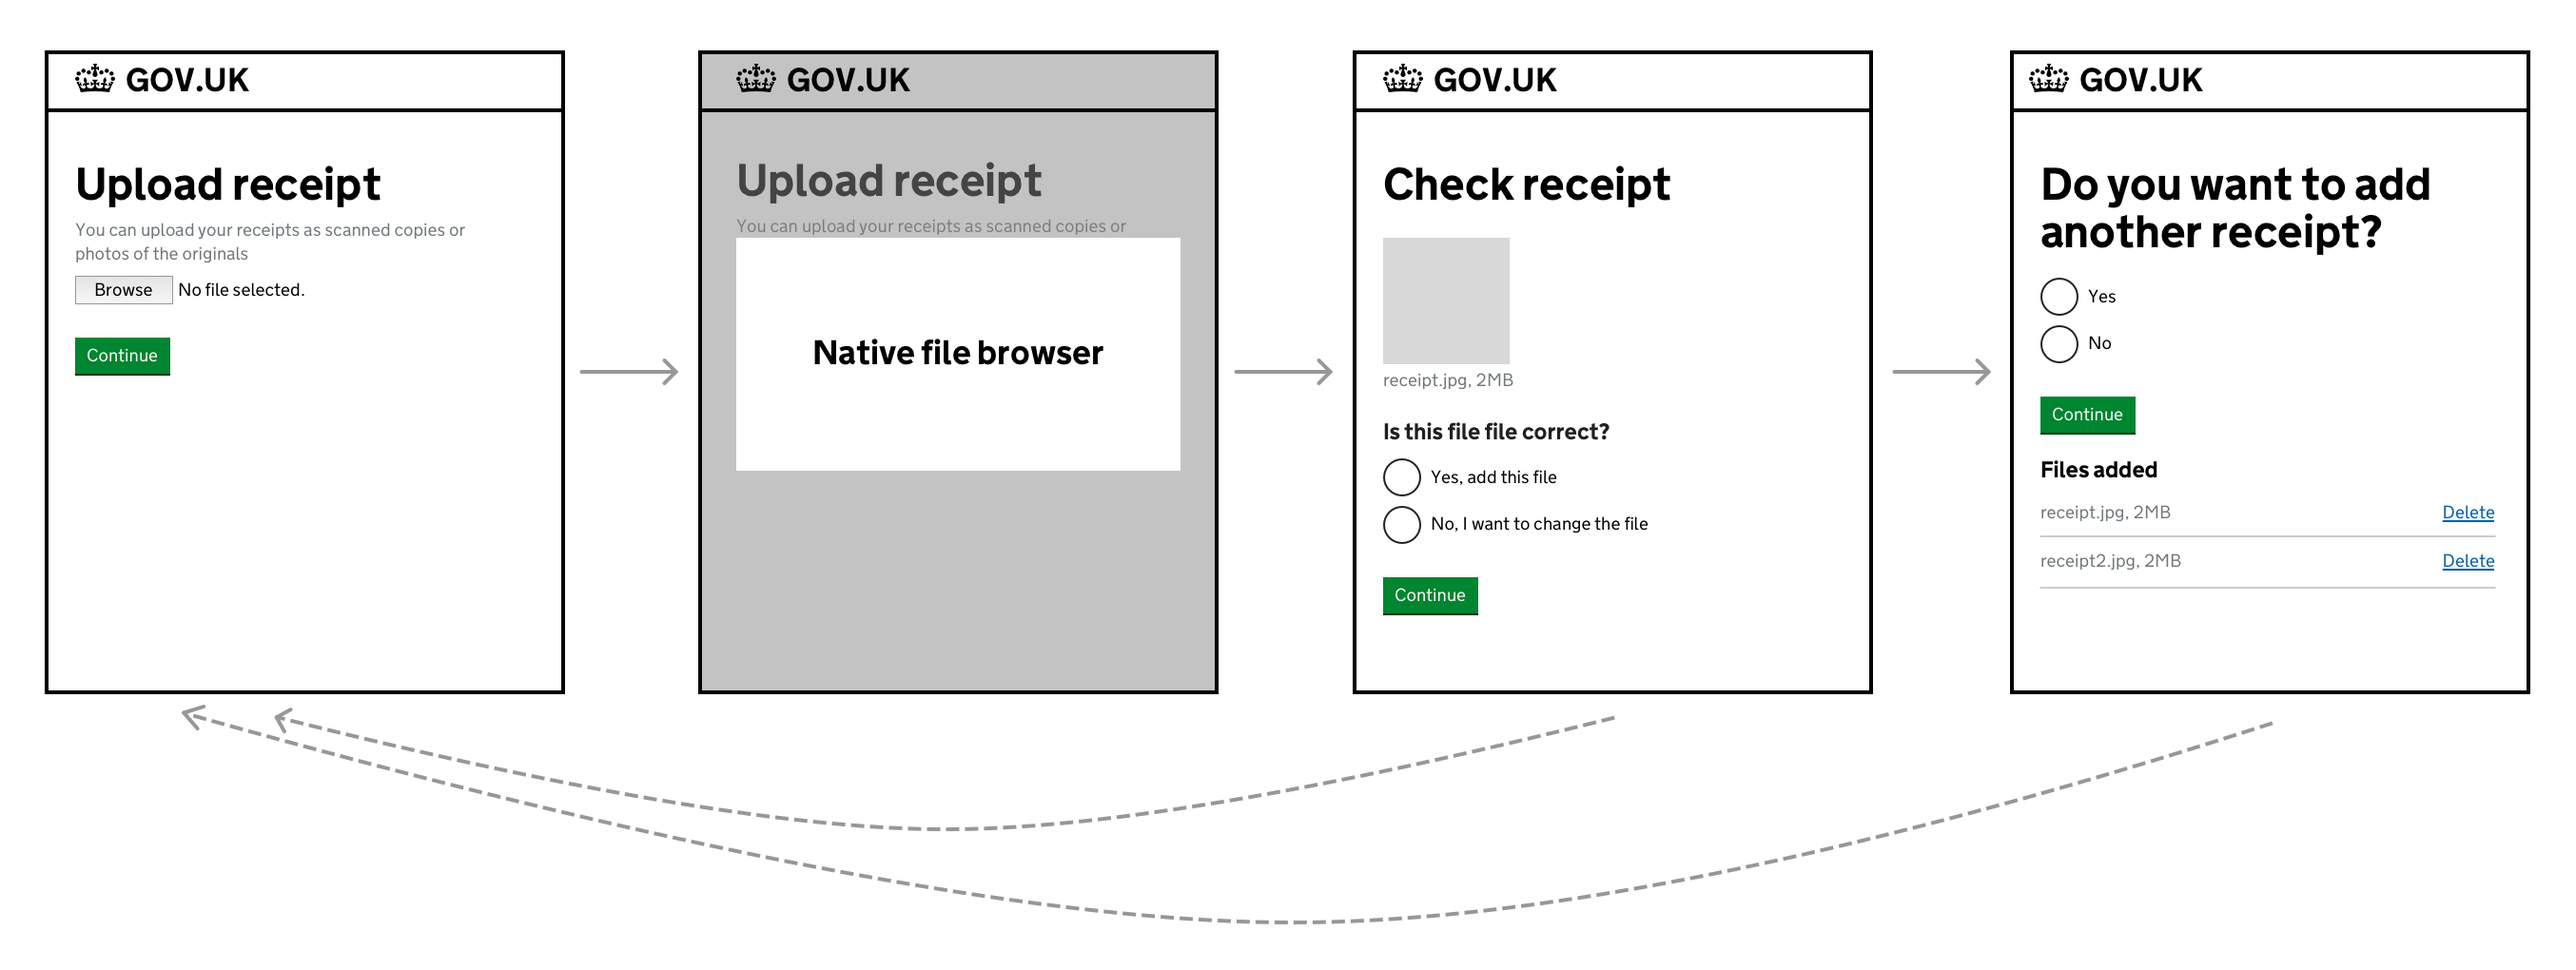
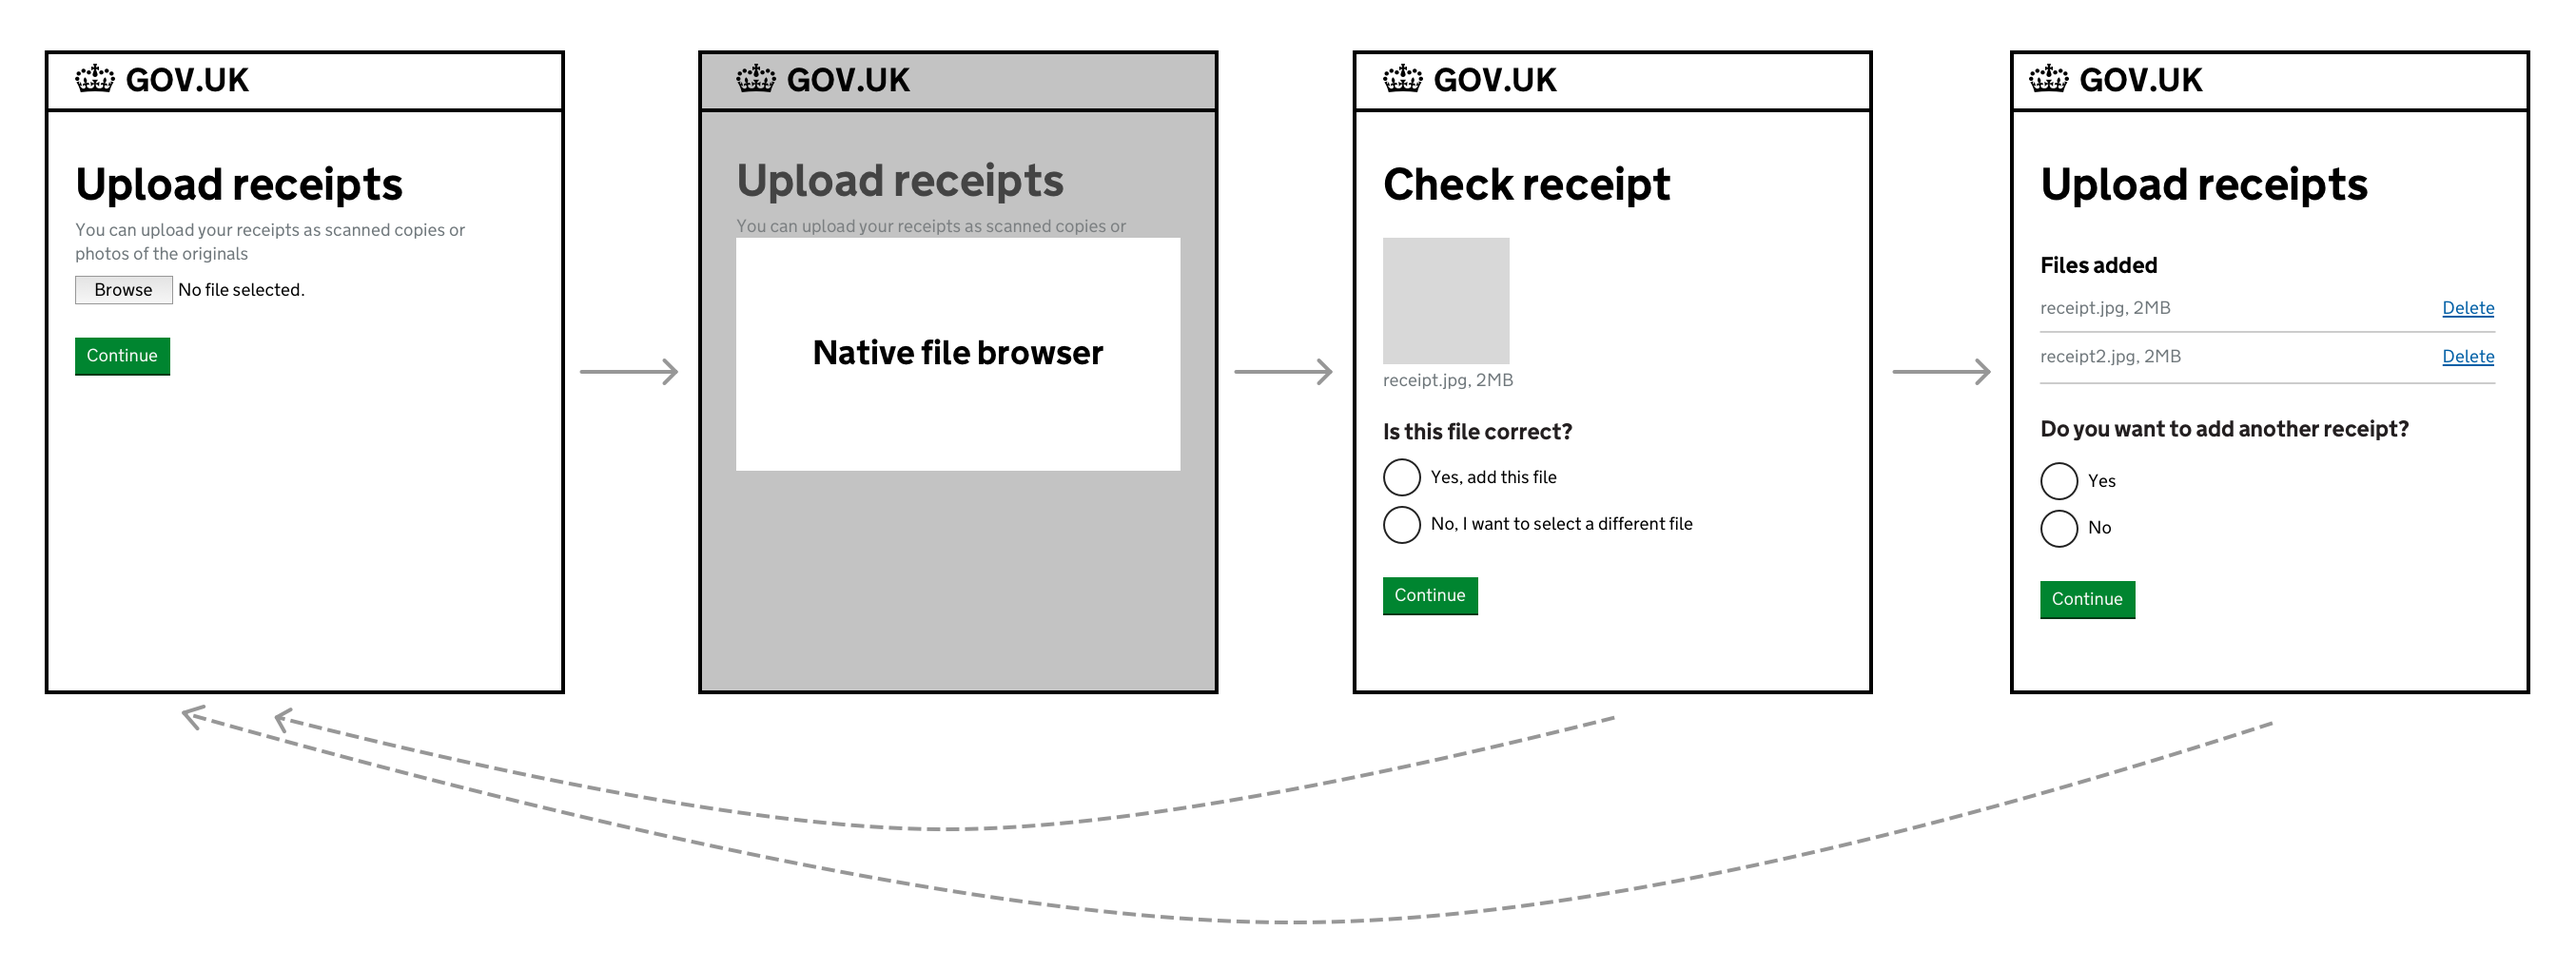
Upload pattern and upgrade docs

diff --git a/app/views/patterns/upload-files/examples/add-another/template.html b/app/views/patterns/upload-files/examples/add-another/template.html
@@ -2,14 +2,60 @@
 {% from "govuk/components/button/macro.njk" import govukButton %}
 {% from "govuk/components/radios/macro.njk" import govukRadios %}
 
+<h1 class="govuk-heading-xl">Upload receipts</h1>
+
+<div class="govuk-grid-row">
+  <div class="govuk-grid-column-two-thirds">
+    <h2 class="govuk-heading-m">Files added</h2>
+
+    {{ govukSummaryList({
+      rows: [
+        {
+          key: {
+            text: "File 1"
+          },
+          value: {
+            html: '<a download href="/">receipta.jpg</a>, 2MB'
+          },
+          actions: {
+            items: [
+              {
+                href: "#",
+                text: "Delete",
+                visuallyHiddenText: "file 1"
+              }
+            ]
+          }
+        },
+        {
+          key: {
+            text: "File 2"
+          },
+          value: {
+            html: '<a download href="/">receipt2.jpg</a>, 5MB'
+          },
+          actions: {
+            items: [
+              {
+                href: "#",
+                text: "Delete",
+                visuallyHiddenText: "file 2"
+              }
+            ]
+          }
+        }
+      ]
+    }) }}
+</div>
+</div>
+
 {{ govukRadios({
   idPrefix: "another",
   name: "another",
-  isPageHeading: true,
   fieldset: {
     legend: {
       text: "Do you want to upload another receipt?",
-      classes: "govuk-fieldset__legend--xl"
+      classes: "govuk-fieldset__legend--m"
     }
   },
   items: [
@@ -25,49 +71,4 @@
 }) }}
 
 {{ govukButton({ text: 'Continue' }) }}
-
-<div class="govuk-grid-row">
-    <div class="govuk-grid-column-two-thirds">
-      <h2 class="govuk-heading-m">Files added</h2>
-
-      {{ govukSummaryList({
-        rows: [
-          {
-            key: {
-              text: "File 1"
-            },
-            value: {
-              html: '<a download href="/">receipta.jpg</a>, 2MB'
-            },
-            actions: {
-              items: [
-                {
-                  href: "#",
-                  text: "Delete",
-                  visuallyHiddenText: "file 1"
-                }
-              ]
-            }
-          },
-          {
-            key: {
-              text: "File 2"
-            },
-            value: {
-              html: '<a download href="/">receipt2.jpg</a>, 5MB'
-            },
-            actions: {
-              items: [
-                {
-                  href: "#",
-                  text: "Delete",
-                  visuallyHiddenText: "file 2"
-                }
-              ]
-            }
-          }
-        ]
-      }) }}
-  </div>
-</div>
 

diff --git a/app/views/patterns/upload-files/examples/upload-multiple/template.html b/app/views/patterns/upload-files/examples/upload-multiple/template.html
@@ -1,0 +1,17 @@
+{% from "govuk/components/file-upload/macro.njk" import govukFileUpload %}
+{% from "govuk/components/button/macro.njk" import govukButton %}
+
+{{ govukFileUpload({
+  id: "file-upload-1",
+  name: "file-upload-1",
+  isPageHeading: true,
+  label: {
+    text: "Upload receipts",
+    classes: 'govuk-label--xl'
+  },
+  hint: {
+    text: 'You can upload your receipt as a scanned copy or photo of the original'
+  }
+}) }}
+
+{{ govukButton({ text: 'Continue' }) }}

diff --git a/app/views/patterns/upload-files/examples/upload-multiple/index.html b/app/views/patterns/upload-files/examples/upload-multiple/index.html
@@ -1,0 +1,7 @@
+{% extends "layouts/prototype.html" %}
+
+{% set bodyClasses %}app-example-page{% endset %}
+
+{% block content %}
+  {% include './template.html' %}
+{% endblock %}

diff --git a/app/views/patterns/upload-files/examples/check/template.html b/app/views/patterns/upload-files/examples/check/template.html
@@ -27,7 +27,7 @@
     },
     {
       value: "no",
-      text: "No, I want to change this file"
+      text: "No, I want to choose a different file"
     }
   ]
 }) }}

diff --git a/app/assets/sass/application.scss b/app/assets/sass/application.scss
@@ -85,6 +85,7 @@ td code,
 p code {
   background-color: govuk-colour("light-grey");
   padding: 0 govuk-spacing(1);
+  @include govuk-font(19);
 }
 
 

diff --git a/app/views/get-started/prototyping/README.md b/app/views/get-started/prototyping/README.md
@@ -2,13 +2,27 @@ This guide explains how to create prototypes using the MoJ Design System and GOV
 
 ## Before you start
 
-First you must have followed the [GOV.UK Design System prototype setup guide](https://design-system.service.gov.uk/get-started/prototyping/).
+You must follow the [GOV.UK Design System prototype setup guide](https://design-system.service.gov.uk/get-started/prototyping/) first. Once you've done that, continue below.
 
-## Setting up the MoJ Frontend
+## Installing MOJ Frontend
 
-The MoJ Design System uses the MoJ Frontend. To get it running follow these steps:
+The MOJ Design System uses MOJ Frontend. To install it, run these steps:
 
-1. Open Terminal
-2. Change the directory to your prototype. For example, `cd path/to/protoype`
-3. Run `npm install @ministryofjustice/frontend --save`
-4. Run `npm start`
+1. open Terminal
+2. change the directory to your prototype. For example, `cd path/to/protoype`
+3. run `npm install @ministryofjustice/frontend --save`
+
+## Updating MOJ Frontend
+
+The current version of MOJ Frontend is **0.0.9-alpha**.
+
+You can check which version your prototype is running by opening `package.json` in the root folder of your prototype. Look for `"@ministryofjustice/frontend"` under `"dependencies"`.
+
+To update your prototype to the latest version of MOJ Frontend:
+
+1. open `package.json` in the root folder of your prototype in a text editor
+2. Under `dependencies`, update the reference to MOJ Frontend to  `"@ministryofjustice/frontend": "0.0.9-alpha”,`
+3. save `package.json`
+4. open Terminal/command line
+5. change the directory to your prototype's directory. For example, `cd path/to/prototype`
+6. run `npm install`

diff --git a/app/views/patterns/upload-files/README.md b/app/views/patterns/upload-files/README.md
@@ -31,7 +31,7 @@ If you add additional fields, then you must show the answers on the check screen
 
 {{ dsExample({
   name: 'upload-files',
-  example: 'default',
+  example: 'upload-single',
   section: 'patterns',
   height: 700
 }) }}
@@ -74,7 +74,7 @@ If you add additional fields, then you must show the answers on the check screen
 
 {{ dsExample({
   name: 'upload-files',
-  example: 'default',
+  example: 'upload-multiple',
   section: 'patterns',
   height: 700,
   id: '2'
